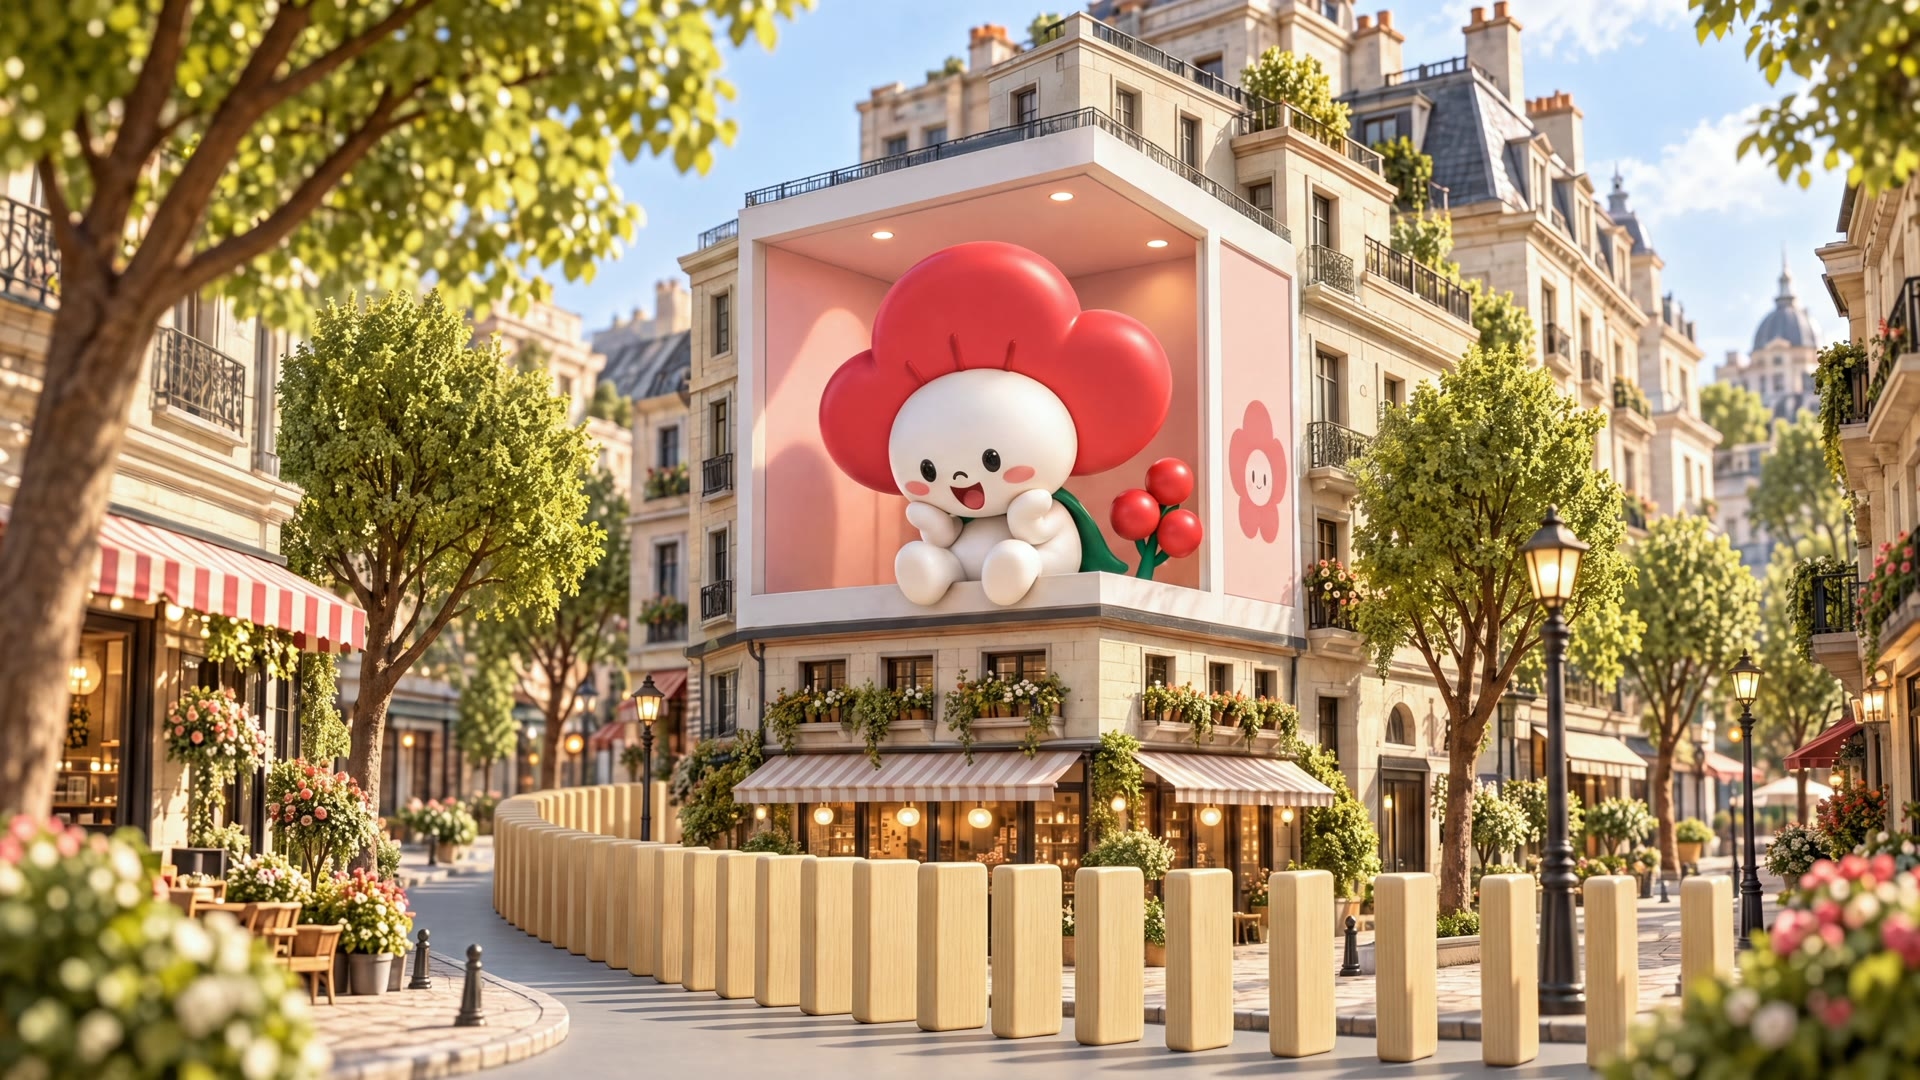
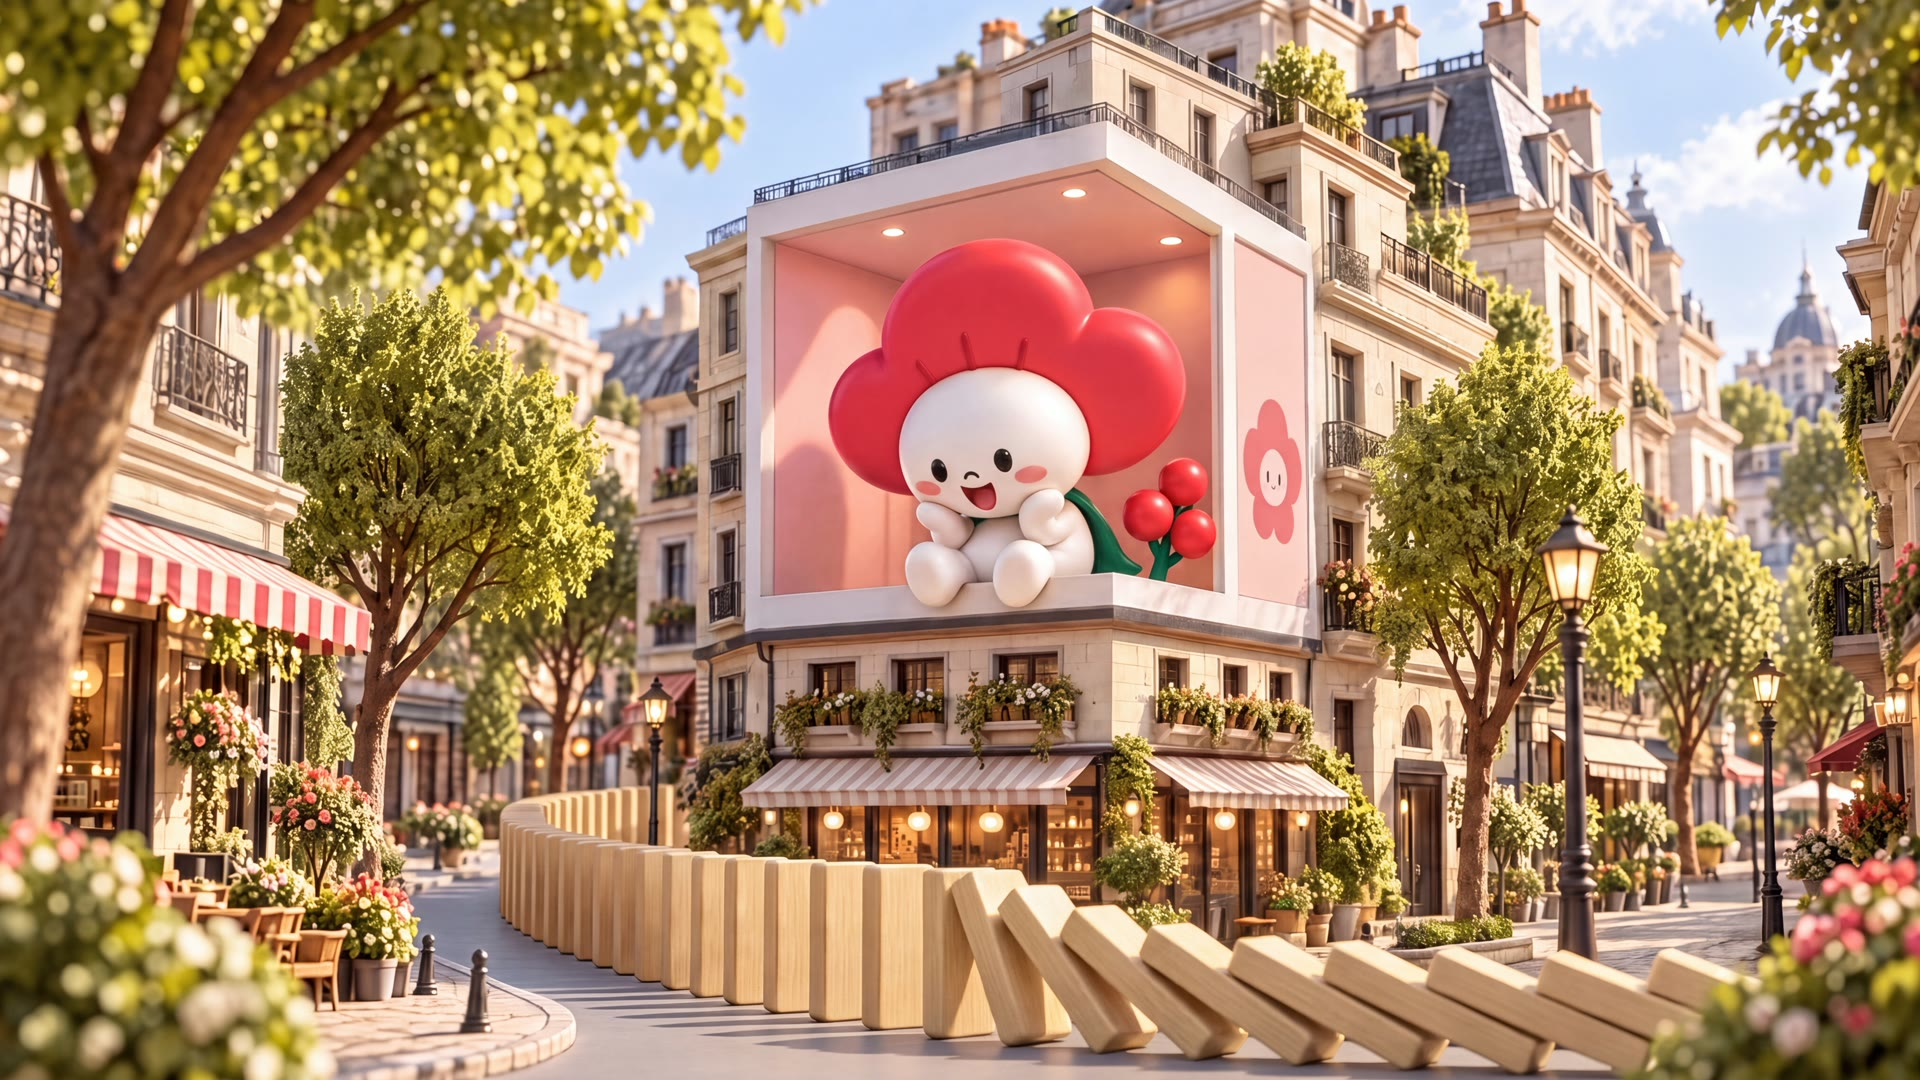
CUT 06 그림을 iv6_14 로 바꾼다
전광판 구도는 그대로 두되, 도미노가 쓰러지고 있는 판으로 바꾼다.
03·04·05 가 모두 쓰러지는 중인데 06 만 전부 서 있어 시제가 끊겼다.

diff --git a/assets/led/README.md b/assets/led/README.md
@@ -42,7 +42,7 @@
 | 03 | `cut03.jpg` | `iv3_7` | 길을 따라 줄이 휘어 가고, 앞쪽은 이미 쓰러졌다 |
 | 04 | `cut04.jpg` | `iv4_15` | 줄이 모퉁이 건물을 감아 돌며 쓰러진다 |
 | 05 | `cut05.jpg` | `iv5_18` | 유리돔 열매 조형을 지나며 쓰러진다 |
-| 06 | `cut06.jpg` | `iv6_13` | 건물 전광판에 캐릭터가 뜬다 |
+| 06 | `cut06.jpg` | `iv6_14` | 전광판 아래 골목을 도미노가 쓰러지며 지난다 |
 | 07 | `cut07.jpg` | `iv7_7` | 개천 옆 마을길을 따라 줄이 열매 조형을 지나간다 |
 | 08 | `cut08.jpg` | `iv8_18` | 유리돔 열매 조형을 눈높이로 — **랜드마크 컷** |
 | 09 | `cut09.jpg` | `iv9_51` | **임시.** 광장 중앙 타워에 줄이 닿는다 |
